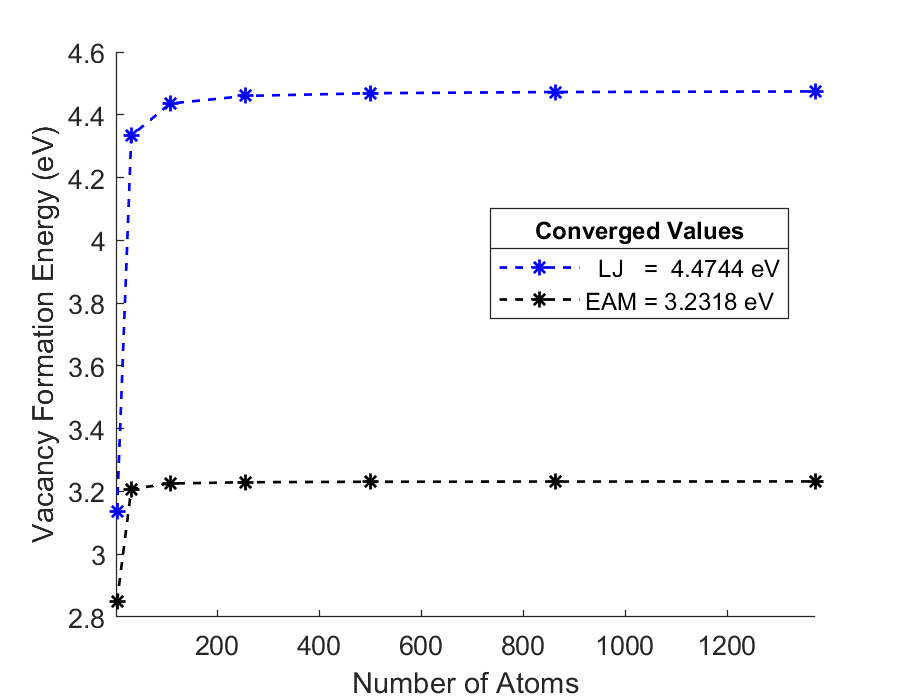
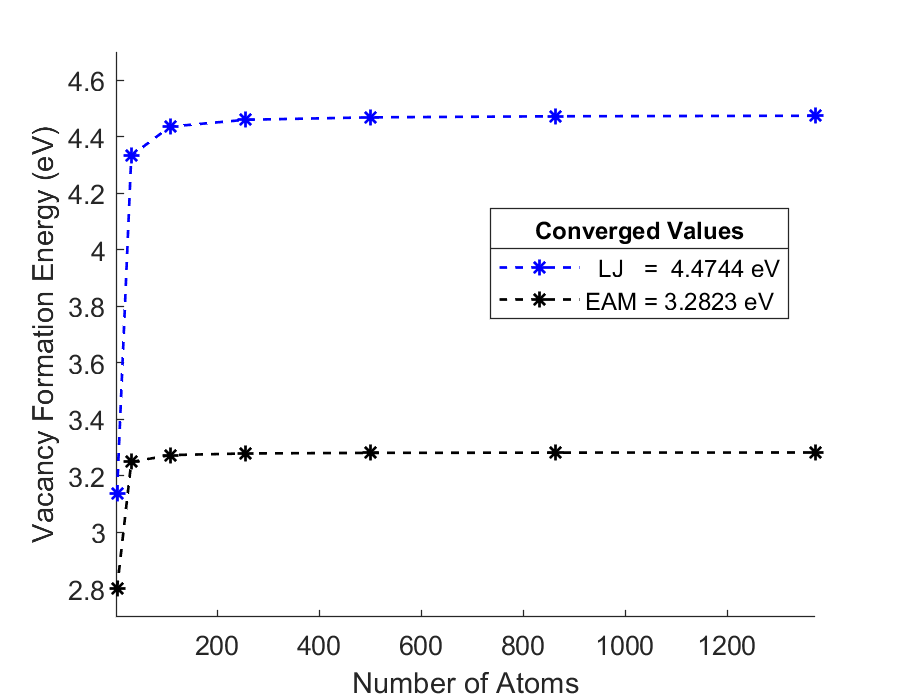
started Prob 5

diff --git a/MS-Lab-2-LAMMPS/ms_lab2.m b/MS-Lab-2-LAMMPS/ms_lab2.m
@@ -86,8 +86,6 @@ set(gcf,'position',[400,400,450,350])
 % ECohb = -4.47765009571895;
 % Evacb = Etotb-(-Nb*ECohb);
 
-
-
 % LJ converge
 Etotlj = [-9.41278242184843 -134.329502871569 -474.630910146196...
     -1137.32312431258 -2229.86974766805 -3859.73438250981 -6134.38063113699];
@@ -96,10 +94,11 @@ Ecohlj = -1*[-3.13759414061614 -4.33320977005061 -4.43580289856258...
     -4.46009068357874 -4.46867684903417 -4.47246162515621 -4.47438412190882];
 Evaclj = Etotlj-(-N.*Ecohlj);
 % EAM converge
-Etoteam = [-8.54644129249801;-99.439027184234;-345.103114375457;...
-    -823.496542276313;-1612.19922070042;-2788.78846228253;-4430.84157964687].';
-Ecoheam = [-2.848813764166;-3.20771055433013;-3.2252627511725;...
-    -3.22939820500515;-3.23086016172429;-3.23150459128914;-3.23183193263813].';
+Etoteam = [-8.39909547923335;-100.710747827532;-350.228703976327;...
+    -836.129898783895;-1637.21024698046;-2832.26453691161;-4500.08755692957].';
+Ecoheam = [-2.79969849307778;-3.24873380088813;-3.27316545772268;...
+    -3.27894077954469;-3.28098245887868;-3.28188242979329;-3.28233957471158].';
+
 Ecoheam = Ecoheam*-1;
 Evaceam = Etoteam-(-N.*Ecoheam);
 % plot
@@ -107,6 +106,7 @@ hold on
 plot(N,Evaclj,'--*b',"LineWidth",1)
 plot(N,Evaceam,'--*k',"LineWidth",1)
 xlim([min(N) max(N)])
+ylim([2.7 4.7])
 lgd = legend(['  LJ   =  ',num2str(Evaclj(7)),' eV'],...
     ['EAM = ',num2str(Evaceam(7)),' eV'],'Location','best');
 title(lgd,'Converged Values')
@@ -114,7 +114,19 @@ xlabel('Number of Atoms')
 ylabel('Vacancy Formation Energy (eV)')
 set(gcf,'position',[400,400,450,350])
 
+%% prob 5 surface energy
 
+% Total # of neighbors = 62230
+% Ave neighs/atom = 57.727273
+% Neighbor list builds = 0
+% Dangerous builds = 0
+% Total energy (eV) = -4497.06011124846;
+% Number of atoms = 1078;
+% Lattice constant (Angstoms) = 24.738;
+% Cohesive energy (eV) = -4.17166986201156;
+% %% ecoh = -4.17166986201156;
+
+% 1372 (Before removal)
 
 
 
